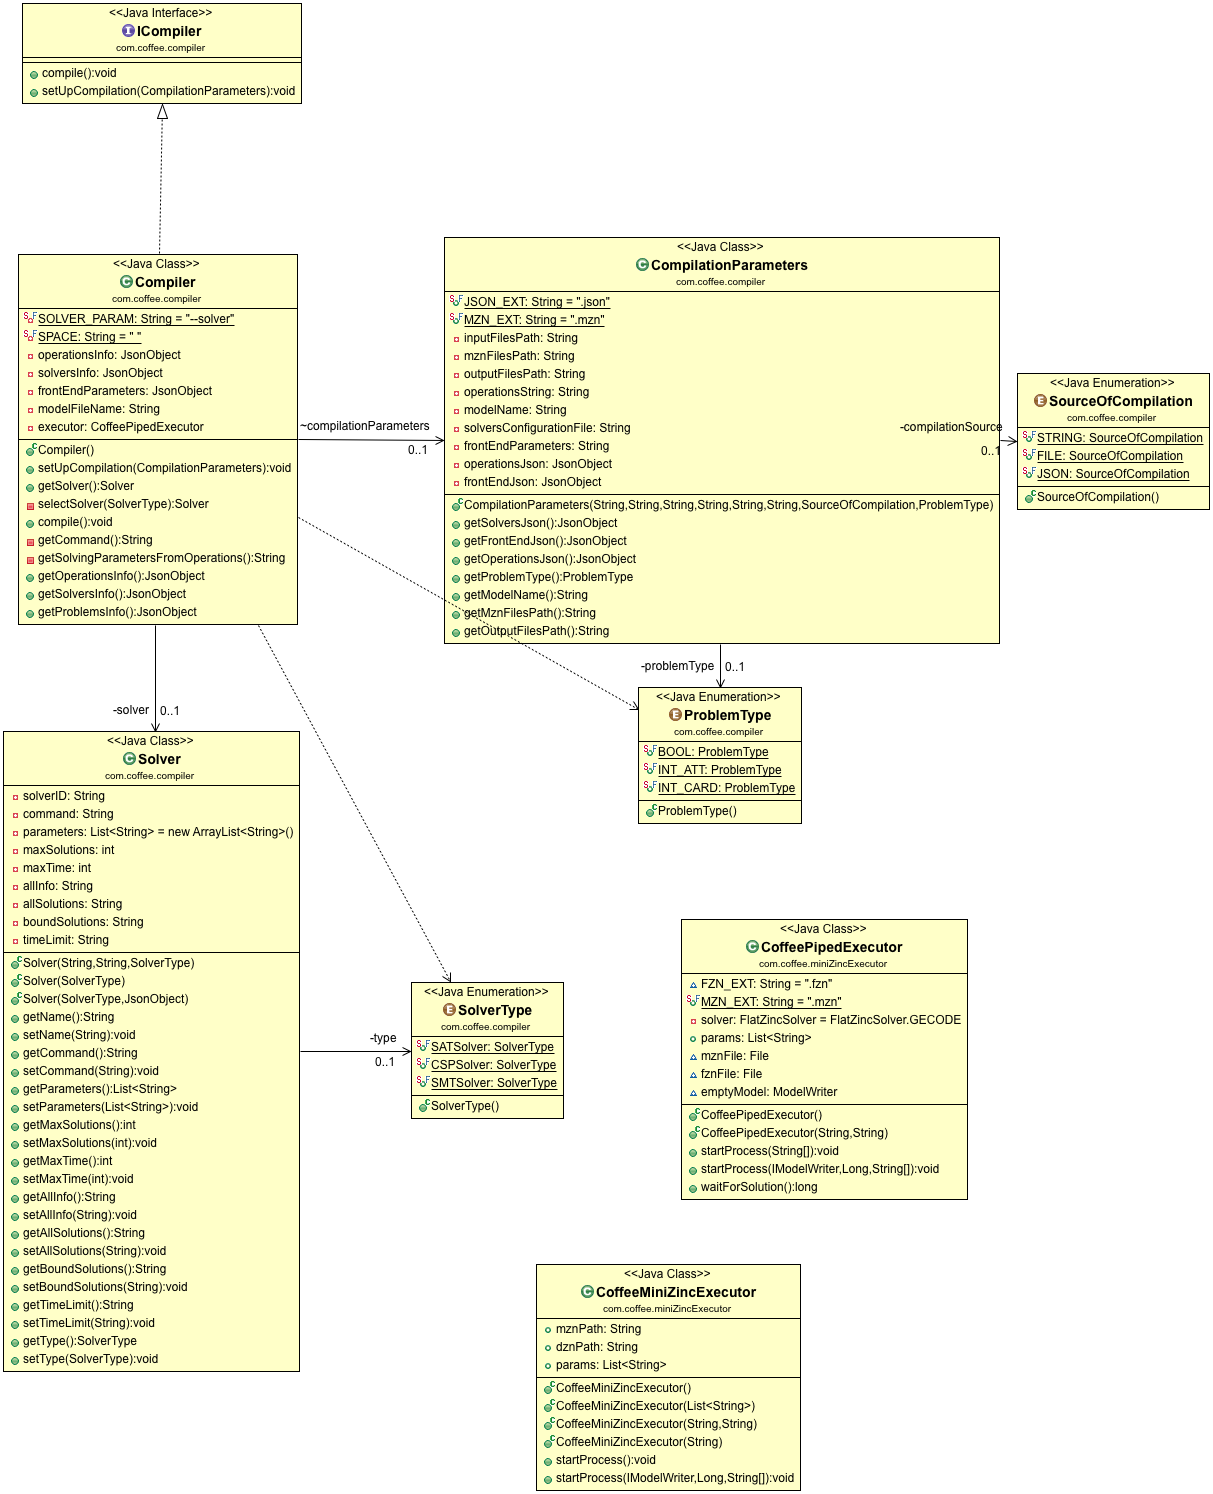
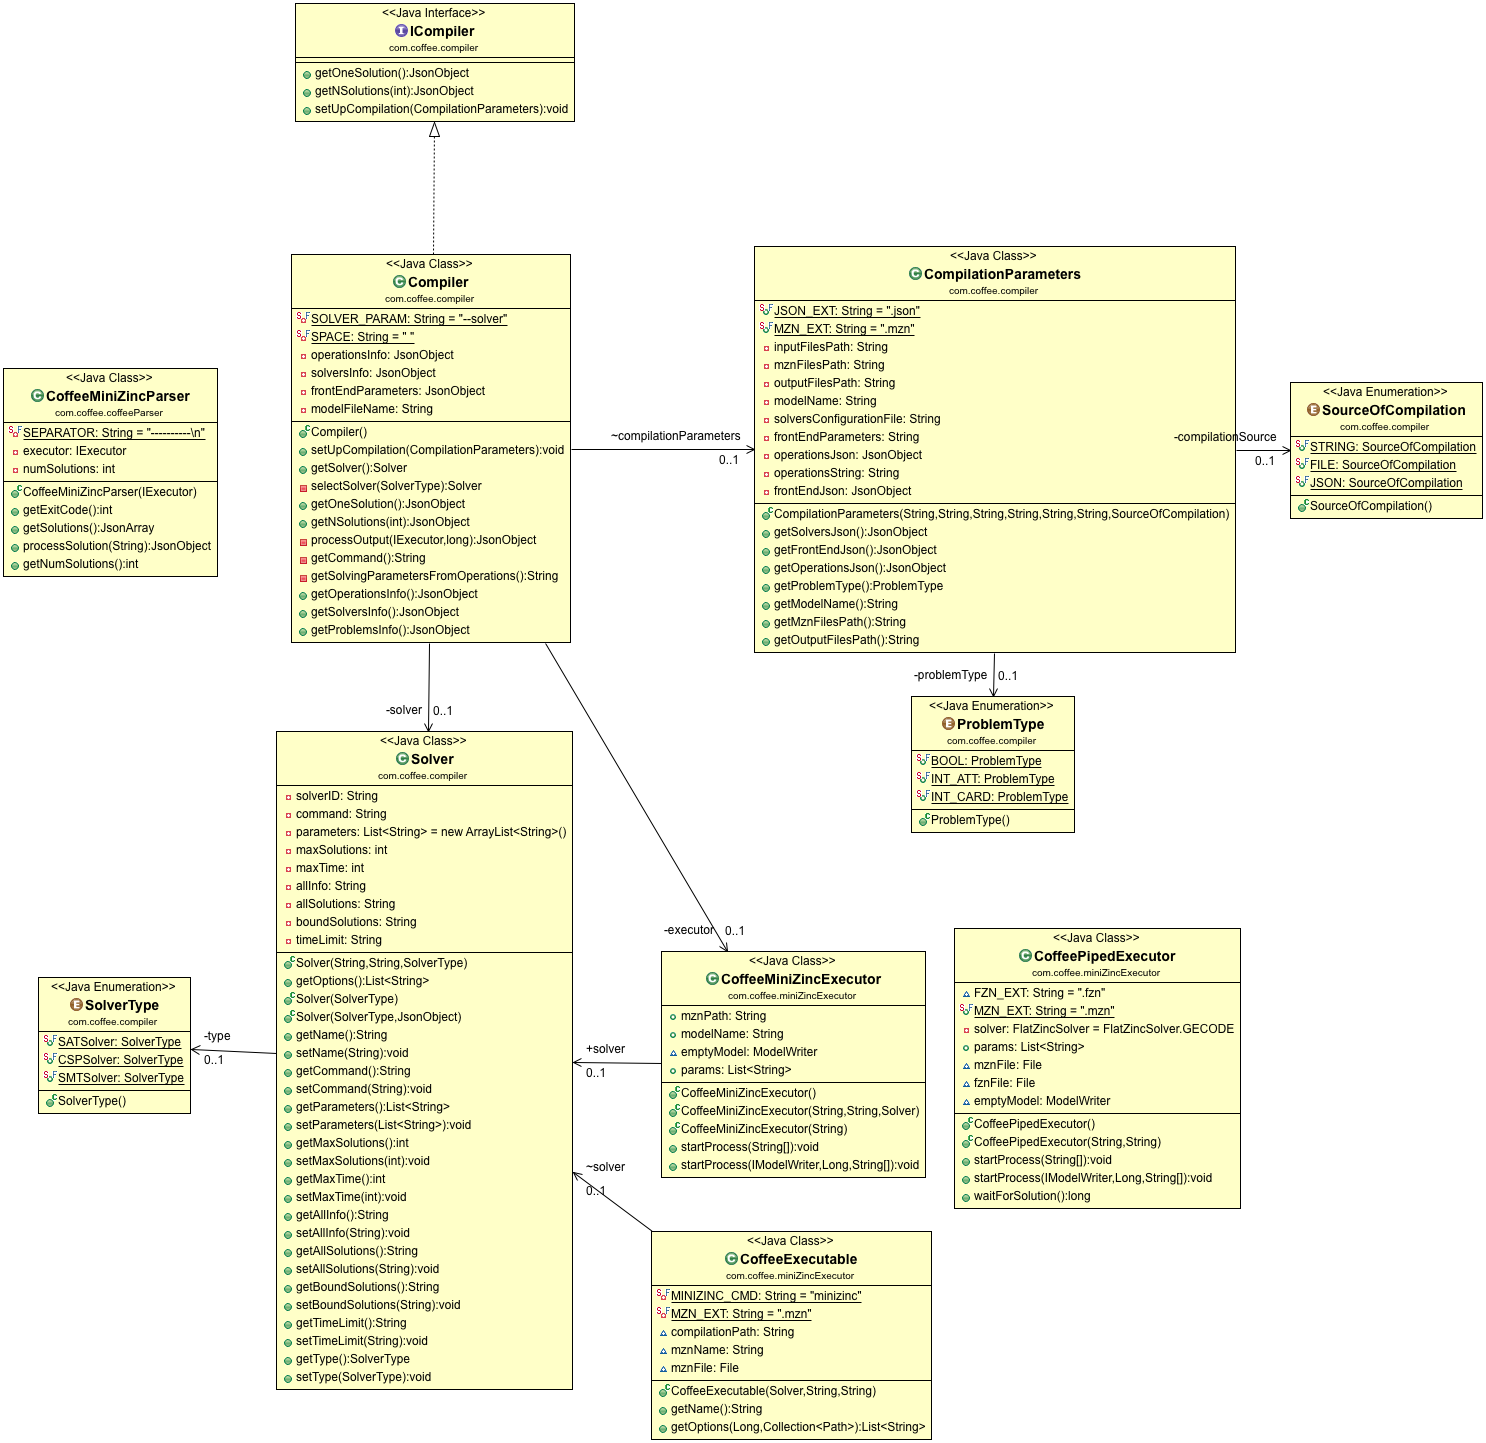
fixed the error parsing the results when running picat sat

diff --git a/com.coffee.compiler/src/com/coffee/compiler/Compiler.java b/com.coffee.compiler/src/com/coffee/compiler/Compiler.java
@@ -170,7 +170,7 @@ public class Compiler implements ICompiler{
 	    long elapsedTime= executor.waitForSolution();
 	    
 	    //obtain the output
-	    System.out.println(executor.getLastSolverOutput());
+	    //System.out.println(executor.getLastSolverOutput());
 	    return processOutput(executor, elapsedTime);
 	    //return null;
 	    
@@ -187,7 +187,7 @@ public class Compiler implements ICompiler{
 	    //execute
 	    long elapsedTime= executor.waitForSolution();
 	    
-	    System.out.println(executor.getLastSolverOutput());
+	    //System.out.println(executor.getLastSolverOutput());
 
 	    //obtain the output	
 	    return processOutput(executor, elapsedTime);
@@ -209,35 +209,6 @@ public class Compiler implements ICompiler{
 	}
 	
 
-
-	
-	private String getCommand() {
-		StringBuilder cmd= new StringBuilder();
-		
-//		cmd.append(MINIZINC_CMD);
-//		cmd.append(SPACE);
-		// minizinc file
-//		cmd.append(COMPILATION_PATH+modelFileName);
-//		cmd.append(SPACE);
-		
-
-		
-		// solver parameters
-		cmd.append(SOLVER_PARAM);
-		cmd.append(SPACE);
-		cmd.append(solver.getCommand());
-		
-		// parameters from operations
-		
-		cmd.append(getSolvingParametersFromOperations());
-		
-		return cmd.toString();
-	}
-	
-	private String getSolvingParametersFromOperations() {
-		//FIXME hacer bien lo de los parametros
-		return "";
-	}
 	
 	public JsonObject getOperationsInfo() {
 		return operationsInfo;

diff --git a/com.coffee.compiler/src/com/coffee/coffeeParser/CoffeeMiniZincParser.java b/com.coffee.compiler/src/com/coffee/coffeeParser/CoffeeMiniZincParser.java
@@ -29,8 +29,19 @@ public class CoffeeMiniZincParser extends MiniZincOutputParser{
 	
 
 	public JsonArray getSolutions() {
+		
 		JsonArrayBuilder array = Json.createArrayBuilder();
-		String[] solutions= executor.getLastSolverOutput().split(SEPARATOR);
+		String solutionsFromExecutor= executor.getLastSolverOutput();
+		if (solutionsFromExecutor.startsWith("% solving")) {
+			solutionsFromExecutor = solutionsFromExecutor.substring(solutionsFromExecutor.indexOf(System.getProperty("line.separator"))+1);
+			solutionsFromExecutor = solutionsFromExecutor.substring(solutionsFromExecutor.indexOf(System.getProperty("line.separator"))+1);
+		}
+		
+		//System.out.println(solutionsFromExecutor);
+
+				
+		String[] solutions= solutionsFromExecutor.split(SEPARATOR);
+		
 		
 		//obtaining the number of solutions
 		numSolutions= solutions.length;

diff --git a/com.coffee.compiler/Test/com/coffee/compiler/CompilerTest.java b/com.coffee.compiler/Test/com/coffee/compiler/CompilerTest.java
@@ -229,13 +229,13 @@ class CompilerTest {
 			//setting up the compiler 
 			compiler.setUpCompilation(params);
 			//compiling
-			System.out.println("one solution");
+			System.out.println("one solution, picat_test");
 			//compiler.getOneSolution();
-			///System.out.println(compiler.getOneSolution().toString());
+			System.out.println(compiler.getOneSolution().toString());
 			
 			System.out.println("-----");
 			
-			//System.out.println("5 solutions");
+			System.out.println("5 solutions, picat_test\"");
 			System.out.println(compiler.getNSolutions(5).toString());
 		} catch (Exception e) {
 			// TODO Auto-generated catch block
